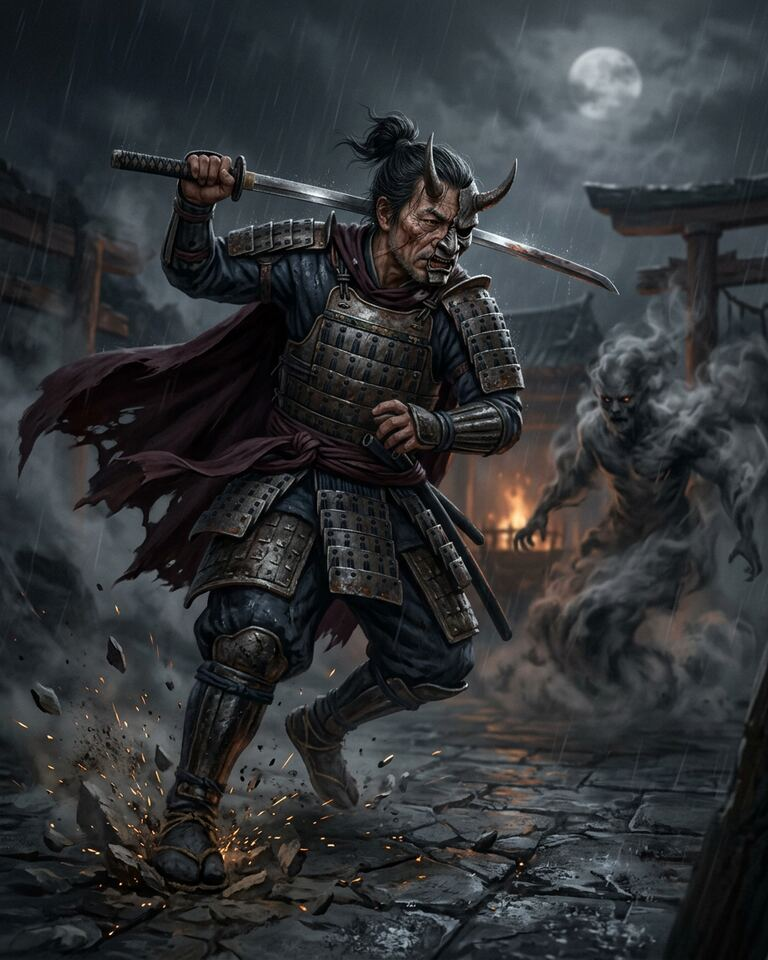
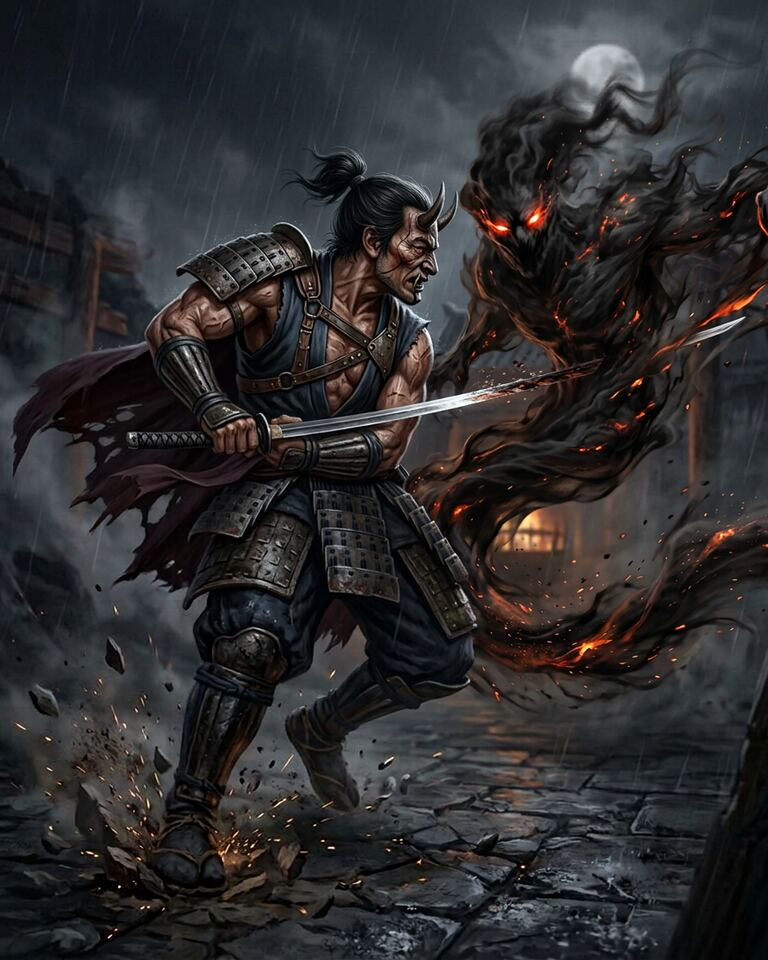
Illustrer Tojiro traversant le Djinn de son katana

diff --git a/tests/rpg-soleil-rouge.test.js b/tests/rpg-soleil-rouge.test.js
@@ -400,9 +400,9 @@ test('les seize illustrations du set et leurs refontes ont une version de cache'
       'hatamoto-des-cendres': 'braise-souls-cendres-v4',
       'kenshi-de-la-forge': 'braise-souls-cendres-v4',
       'serment-de-la-forge': 'braise-souls-cendres-v4',
-      // Le dernier lot Souls : les magies et la Tour de braise. Tojiro atterrit
-      // sous la pluie face au Djinn, masque démoniaque et katana levé.
-      'tojiro-le-pourfendeur': 'tojiro-souls-djinn-realiste-v4',
+      // Le dernier lot Souls : les magies et la Tour de braise. Tojiro, armure
+      // de samouraï allégée, transperce le Djinn de son katana sous la pluie.
+      'tojiro-le-pourfendeur': 'tojiro-souls-djinn-pourfendu-v5',
       'feux-de-kitsune': 'braise-souls-cendres-v6',
       'braise-et-sable': 'arc-fleche-souls-lueur-v3',
       'sabre-maudit': 'armurerie-sangles-v1',

diff --git a/src/games/rpgCardArt.js b/src/games/rpgCardArt.js
@@ -99,9 +99,9 @@ const CARD_ART_CACHE_VERSIONS = {
   'petit-orochi': 'petit-orochi-kaiga-couleurs-v1',
   'samourai-du-daimyo': 'samourai-du-daimyo-kaiga-couleurs-v1',
   'cavalier-des-deux-sabres': 'braise-souls-cendres-v4',
-  // Tojiro, samouraï démoniaque, atterrit en trombe face à un Djinn :
-  // reprise plus réaliste sous la pluie, révision dédiée au plein art.
-  'tojiro-le-pourfendeur': 'tojiro-souls-djinn-realiste-v4',
+  // Tojiro, samouraï démoniaque à l'armure légère, traverse le Djinn de son
+  // katana dans la cour sous la pluie : révision dédiée au plein art.
+  'tojiro-le-pourfendeur': 'tojiro-souls-djinn-pourfendu-v5',
   'sabre-maudit': 'armurerie-sangles-v1',
   'montagne-du-soleil-rouge': 'montagne-kaiga-soleil-rouge-v1',
   // Soleil rouge uniquement : refonte kaiga / nihonga, personnages en action.

diff --git a/src/games/RPG-CARD-ART.md b/src/games/RPG-CARD-ART.md
@@ -599,12 +599,10 @@ braise, Nuage de cendres, Vent rouge). La Frappe d'iaijutsu et les Feux de
 kitsune, refaits une seconde fois, portent `-v6`.
 
 Tojiro rejoint à présent l'huile sombre des autres samouraïs : ninja-samouraï
-au masque démoniaque, il atterrit à toute vitesse dans une cour en ruines,
-katana levé face à un Djinn de fumée, sous la pluie et la lune. La composition
-initiale a été peinte de zéro, puis reprise avec une facture plus réaliste,
-des matériaux usés et une lumière moins graphique
-(`tojiro-souls-djinn-realiste-v4`). Son ancienne peinture nihonga au visage
-clair et aux talismans n'est plus livrée.
+au masque démoniaque, il fend un Djinn de fumée de son katana dans une cour en
+ruines sous la pluie. Son armure de samouraï est allégée, l'épaule et les bras
+visibles sous les plaques usées (`tojiro-souls-djinn-pourfendu-v5`). Son ancienne
+peinture nihonga au visage clair et aux talismans n'est plus livrée.
 La Montagne du Soleil rouge — terrain hors du lot des cartes jouées — reste en
 kaiga.
 
@@ -1021,7 +1019,7 @@ une logique commune d'un set à l'autre.
 **Braise était déjà faite** : la dérogation Souls de dix-huit cartes de ce
 document (vingt-neuf au total avec les reprises) a couvert tout le set en 2025
 et 2026, sous les révisions `braise-souls-cendres-v2` à `-v6` ; Tojiro a
-également rejoint l'huile sombre depuis (`tojiro-souls-djinn-realiste-v4`).
+également rejoint l'huile sombre depuis (`tojiro-souls-djinn-pourfendu-v5`).
 La **Montagne du Soleil rouge** est un terrain, hors du lot des cartes jouées.
 
 > **Ne pas se fier aux seuls noms de révision.** Un comptage rapide des marques
